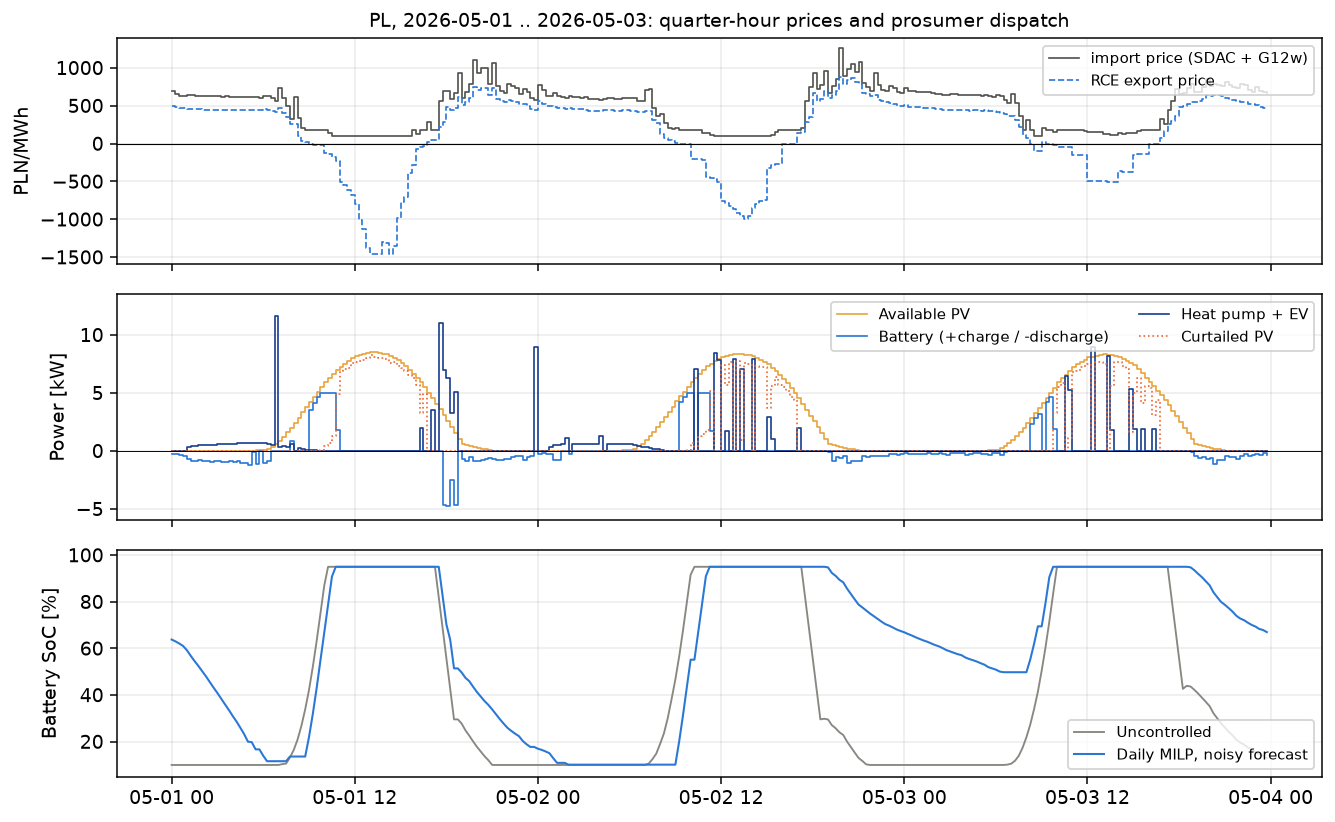
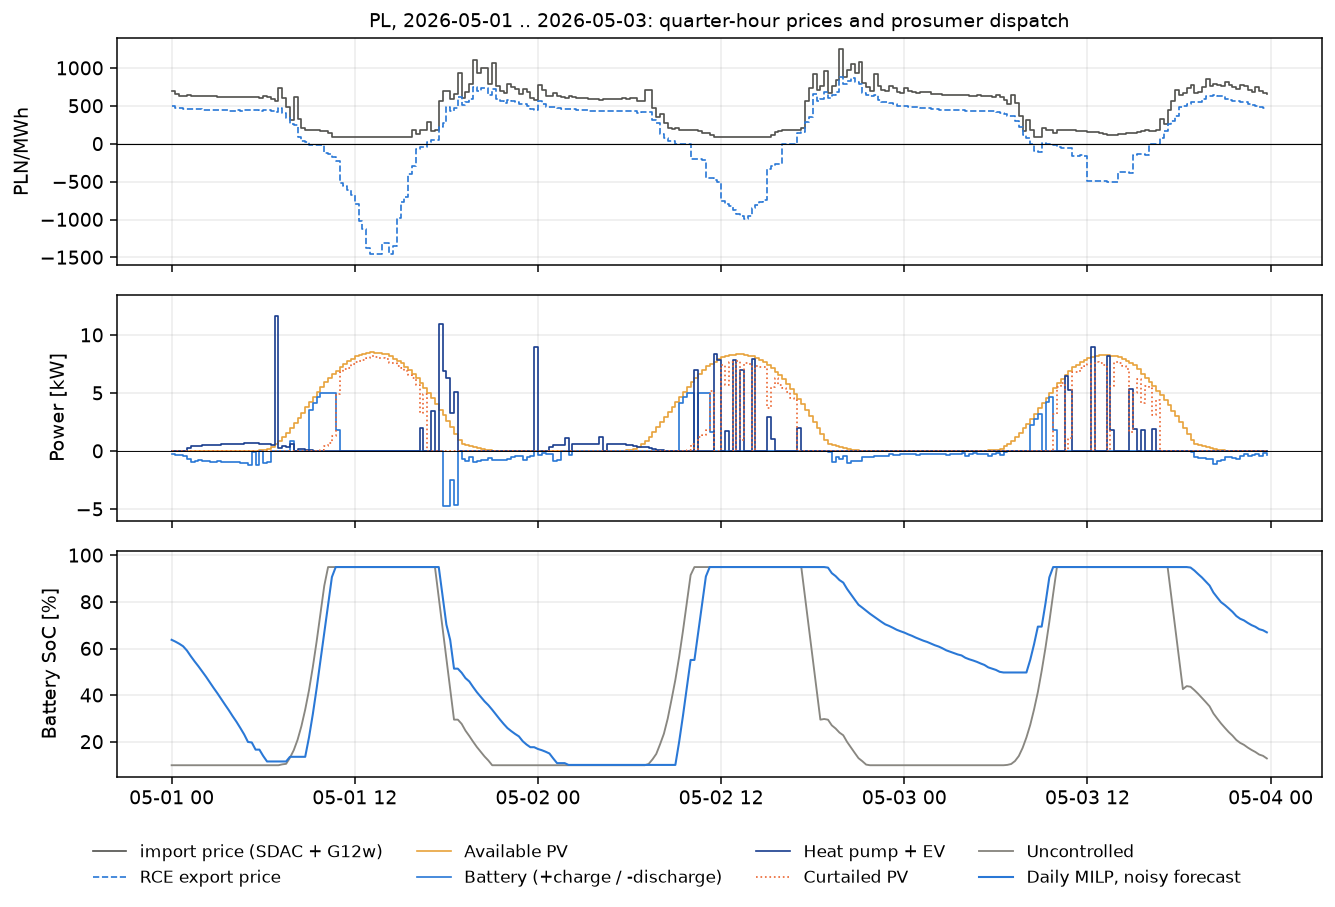
Charts: wrapped category labels, legends off the data, larger text
Page: strategy and operating-mode names wrap onto lines instead of overlapping;
time labels of the two- and three-panel plots sit under the lowest panel (they
ran into the next panel's top tick); horizontal legends are anchored at their
bottom above the plot, so wrapped legends grow away from the data (on narrow
screens they covered up to 70 % of the week plot).

README charts: dispatch_week and modbus_hil_loop get one legend under the
figure instead of legends that hid line ends, peaks and the SoC drop;
ci_k_factor legends and labels 9 pt, long labels wrapped. Layout only; results,
README numbers and docs/data.js unchanged.

diff --git a/docs/index.html b/docs/index.html
@@ -188,9 +188,16 @@ function baseLayout(extra) {
     margin: {l: 56, r: 18, t: 24, b: 46},
     xaxis: {gridcolor: css("--grid"), linecolor: css("--axis"), zeroline: false},
     yaxis: {gridcolor: css("--grid"), linecolor: css("--axis"), zeroline: false},
-    legend: {orientation: "h", y: 1.12, x: 0}
+    // anchored at its bottom above the plot, so a legend that wraps to more rows grows upwards, not into the data
+    legend: {orientation: "h", y: 1.02, yanchor: "bottom", x: 0}
   }, extra || {});
 }
+// category names wrapped onto lines of about n characters, so neighbouring tick labels do not overlap
+const wrap = (s, n = 14) => s.split(" ").reduce((lines, w) => {
+  const last = lines[lines.length - 1];
+  if (last && (last + " " + w).length <= n) lines[lines.length - 1] = last + " " + w; else lines.push(w);
+  return lines;
+}, []).join("<br>");
 
 const STRAT_NAMES = D.strategy_labels;
 const CI_NAMES = D.ci_labels;
@@ -215,12 +222,12 @@ function renderProsumer() {
   const unc = rows.find(r => r.strategy === "uncontrolled").total_economic_cost_pln;
 
   Plotly.react("prosPlot", [
-    {x: rows.map(r => STRAT_NAMES[r.strategy]), y: rows.map(r => r.net_cash_bill_pln), name: "Net cash bill", type: "bar", marker: {color: css("--s1")}},
-    {x: rows.map(r => STRAT_NAMES[r.strategy]), y: rows.map(r => r.bess_deg_cost_pln), name: "Battery cycle wear", type: "bar", marker: {color: css("--s4")}}
+    {x: rows.map(r => wrap(STRAT_NAMES[r.strategy])), y: rows.map(r => r.net_cash_bill_pln), name: "Net cash bill", type: "bar", marker: {color: css("--s1")}},
+    {x: rows.map(r => wrap(STRAT_NAMES[r.strategy])), y: rows.map(r => r.bess_deg_cost_pln), name: "Battery cycle wear", type: "bar", marker: {color: css("--s4")}}
   ], baseLayout({
     barmode: "stack",
     yaxis: {title: "PLN / year", gridcolor: css("--grid"), linecolor: css("--axis")},
-    xaxis: {gridcolor: css("--grid"), linecolor: css("--axis"), tickangle: -12}
+    xaxis: {gridcolor: css("--grid"), linecolor: css("--axis"), tickangle: 0, automargin: true}
   }), CFG);
 
   document.getElementById("prosTable").innerHTML = `
@@ -265,7 +272,8 @@ function renderWeek() {
     {x: t, y: W.soc_mpc, name: "SoC MILP, noisy forecast [%]", yaxis: "y3", line: {color: css("--s1"), width: 1.8}}
   ], baseLayout({
     grid: {rows: 3, columns: 1, pattern: "independent", roworder: "top to bottom"},
-    xaxis: {gridcolor: css("--grid"), linecolor: css("--axis"), matches: "x"},
+    // all traces use x; its time labels go under the lowest panel instead of between the panels
+    xaxis: {gridcolor: css("--grid"), linecolor: css("--axis"), anchor: "y3"},
     xaxis2: {gridcolor: css("--grid"), linecolor: css("--axis"), matches: "x"},
     xaxis3: {gridcolor: css("--grid"), linecolor: css("--axis"), matches: "x"},
     yaxis: {title: "PLN/MWh", domain: [0.70, 1.0], gridcolor: css("--grid"), linecolor: css("--axis")},
@@ -277,14 +285,14 @@ function renderWeek() {
 function renderCi() {
   const C = D.ci_summary;
   const modes = Object.keys(CI_NAMES);
-  const x = modes.map(m => CI_NAMES[m]);
+  const x = modes.map(m => wrap(CI_NAMES[m]));
   Plotly.react("ciPlot", [
     {x, y: modes.map(m => C[m].annual_energy_dist_pln / 1000), name: "Energy + C23 dist.", type: "bar", marker: {color: css("--s1")}},
     {x, y: modes.map(m => C[m].annual_capacity_fee_pln / 1000), name: "Capacity fee", type: "bar", marker: {color: css("--s4")}}
   ], baseLayout({
     barmode: "stack",
     yaxis: {title: "Thousand PLN / year", gridcolor: css("--grid"), linecolor: css("--axis")},
-    xaxis: {gridcolor: css("--grid"), linecolor: css("--axis"), tickangle: -12}
+    xaxis: {gridcolor: css("--grid"), linecolor: css("--axis"), tickangle: 0, automargin: true}
   }), CFG);
 
   document.getElementById("ciTable").innerHTML = `
@@ -318,6 +326,8 @@ function renderHil() {
      line: {color: css("--bad"), width: 1}}
   ], baseLayout({
     grid: {rows: 2, columns: 1, pattern: "independent", roworder: "top to bottom"},
+    // all traces use x; its time labels go under the lower panel, not onto the lower panel's "100" tick
+    xaxis: {gridcolor: css("--grid"), linecolor: css("--axis"), anchor: "y2"},
     yaxis: {title: "kW", domain: [0.48, 1.0], gridcolor: css("--grid"), linecolor: css("--axis")},
     yaxis2: {title: "SoC [%]", domain: [0.0, 0.38], range: [0, 105], gridcolor: css("--grid"), linecolor: css("--axis")}
   }), CFG);

diff --git a/src/hems_mpc/pipeline.py b/src/hems_mpc/pipeline.py
@@ -3,6 +3,7 @@
 from __future__ import annotations
 
 import json
+import textwrap
 from pathlib import Path
 import numpy as np
 import pandas as pd
@@ -214,6 +215,16 @@ def _save(fig, path: Path) -> None:
     plt.close(fig)
 
 
+def _legend_below(fig, axes, ncol: int) -> None:
+    """One legend for all panels, under the figure, where it covers no data."""
+    handles, labels = [], []
+    for a in axes:
+        h, lab = a.get_legend_handles_labels()
+        handles += h
+        labels += lab
+    fig.legend(handles, labels, loc="upper center", bbox_to_anchor=(0.5, 0.0), ncol=ncol, fontsize=9, frameon=False)
+
+
 def generate_plots(
     df_prosumer_summary: pd.DataFrame,
     df_dyn_mpc: pd.DataFrame,
@@ -301,7 +312,6 @@ def generate_plots(
     axes[0].set_ylabel("PLN/MWh")
     axes[0].set_title("PL, 2026-05-01 .. 2026-05-03: quarter-hour prices and prosumer dispatch", fontsize=10)
     axes[0].grid(alpha=0.25)
-    axes[0].legend(loc="upper right", fontsize=8)
 
     axes[1].step(t_axis, s_mpc["pv_avail_kw"], where="post", label="Available PV", color=WARM, lw=0.9)
     axes[1].step(
@@ -325,45 +335,44 @@ def generate_plots(
     axes[1].set_ylabel("Power [kW]")
     axes[1].set_ylim(-6, 13.5)
     axes[1].grid(alpha=0.25)
-    axes[1].legend(loc="upper right", fontsize=8, ncol=2)
 
     axes[2].plot(t_axis, s_unc["soc_kwh"] * 10.0, label=STRATEGY_LABELS["uncontrolled"], color=GREY, lw=1.0)
     axes[2].plot(t_axis, s_mpc["soc_kwh"] * 10.0, label=STRATEGY_LABELS["mpc_forecast"], color=BLUE, lw=1.1)
     axes[2].set_ylabel("Battery SoC [%]")
     axes[2].set_ylim(5, 102)
     axes[2].grid(alpha=0.25)
-    axes[2].legend(loc="lower right", fontsize=8)
+    _legend_below(fig, axes, ncol=4)
     _save(fig, img_dir / "dispatch_week.png")
 
     # 3. C&I C23 site cost breakdown & K-factor
     fig, (ax1, ax2) = plt.subplots(1, 2, figsize=(10.4, 4.0))
     modes = list(CI_MODES)
-    labels = [CI_LABELS[m].replace(", ", ",\n") for m in modes]
+    labels = [textwrap.fill(CI_LABELS[m], 16) for m in modes]
     e_cost = [ci_results[m]["annual_energy_dist_pln"] / 1000.0 for m in modes]
     cap_cost = [ci_results[m]["annual_capacity_fee_pln"] / 1000.0 for m in modes]
 
     x_ci = np.arange(len(modes))
     ax1.bar(x_ci, e_cost, width=0.5, label="Energy + C23 distribution", color=BLUE)
     ax1.bar(x_ci, cap_cost, width=0.5, bottom=e_cost, label="Capacity fee", color=WARM)
-    ax1.set_xticks(x_ci, labels, fontsize=8)
+    ax1.set_xticks(x_ci, labels, fontsize=9)
     ax1.set_ylabel("Thousand PLN / year")
     ax1.set_title("C&I site on C23: annual cost components", fontsize=10)
     ax1.set_ylim(0, 1.3 * max(np.array(e_cost) + np.array(cap_cost)))
     ax1.grid(axis="y", alpha=0.25)
     ax1.set_axisbelow(True)
-    ax1.legend(loc="upper right", fontsize=8)
+    ax1.legend(loc="upper right", fontsize=9)
 
     k1_shares = [ci_results[m]["k1_days_share_pct"] for m in modes]
     k_mults = [ci_results[m]["effective_k_mult"] * 100.0 for m in modes]
     ax2.bar(x_ci - 0.16, k1_shares, width=0.30, label="Working days in K1 (<5 %)", color=BLUE)
     ax2.bar(x_ci + 0.16, k_mults, width=0.30, label="Mean factor A [%]", color=WARM)
-    ax2.set_xticks(x_ci, labels, fontsize=8)
+    ax2.set_xticks(x_ci, labels, fontsize=9)
     ax2.set_ylabel("Share of days / factor A [%]")
     ax2.set_ylim(0, 125)
     ax2.set_title("Capacity fee K-group (Art. 70a, daily)", fontsize=10)
     ax2.grid(axis="y", alpha=0.25)
     ax2.set_axisbelow(True)
-    ax2.legend(loc="upper left", fontsize=8)
+    ax2.legend(loc="upper left", fontsize=9)
     _save(fig, img_dir / "ci_k_factor.png")
 
     # 4. Modbus TCP closed-loop trace
@@ -378,7 +387,6 @@ def generate_plots(
     ax_a.set_ylim(-6, 10.5)
     ax_a.set_title("Modbus TCP loop on 1 May 2026: 45-minute heartbeat drop at 12:00", fontsize=10)
     ax_a.grid(alpha=0.25)
-    ax_a.legend(loc="upper left", fontsize=8)
 
     ax_b.plot(t_h, sub_hil["soc_pct"], label="Inverter SoC (reg 40010)", color=BLUE, lw=1.1)
     ax_b.fill_between(
@@ -402,7 +410,7 @@ def generate_plots(
     ax_b.set_ylabel("SoC [%]")
     ax_b.set_ylim(0, 108)
     ax_b.grid(alpha=0.25)
-    ax_b.legend(loc="lower left", fontsize=8)
+    _legend_below(fig, (ax_a, ax_b), ncol=3)
     _save(fig, img_dir / "modbus_hil_loop.png")
 
     # 5. Home Assistant entity states derived from the dispatch on 1 May 2026
